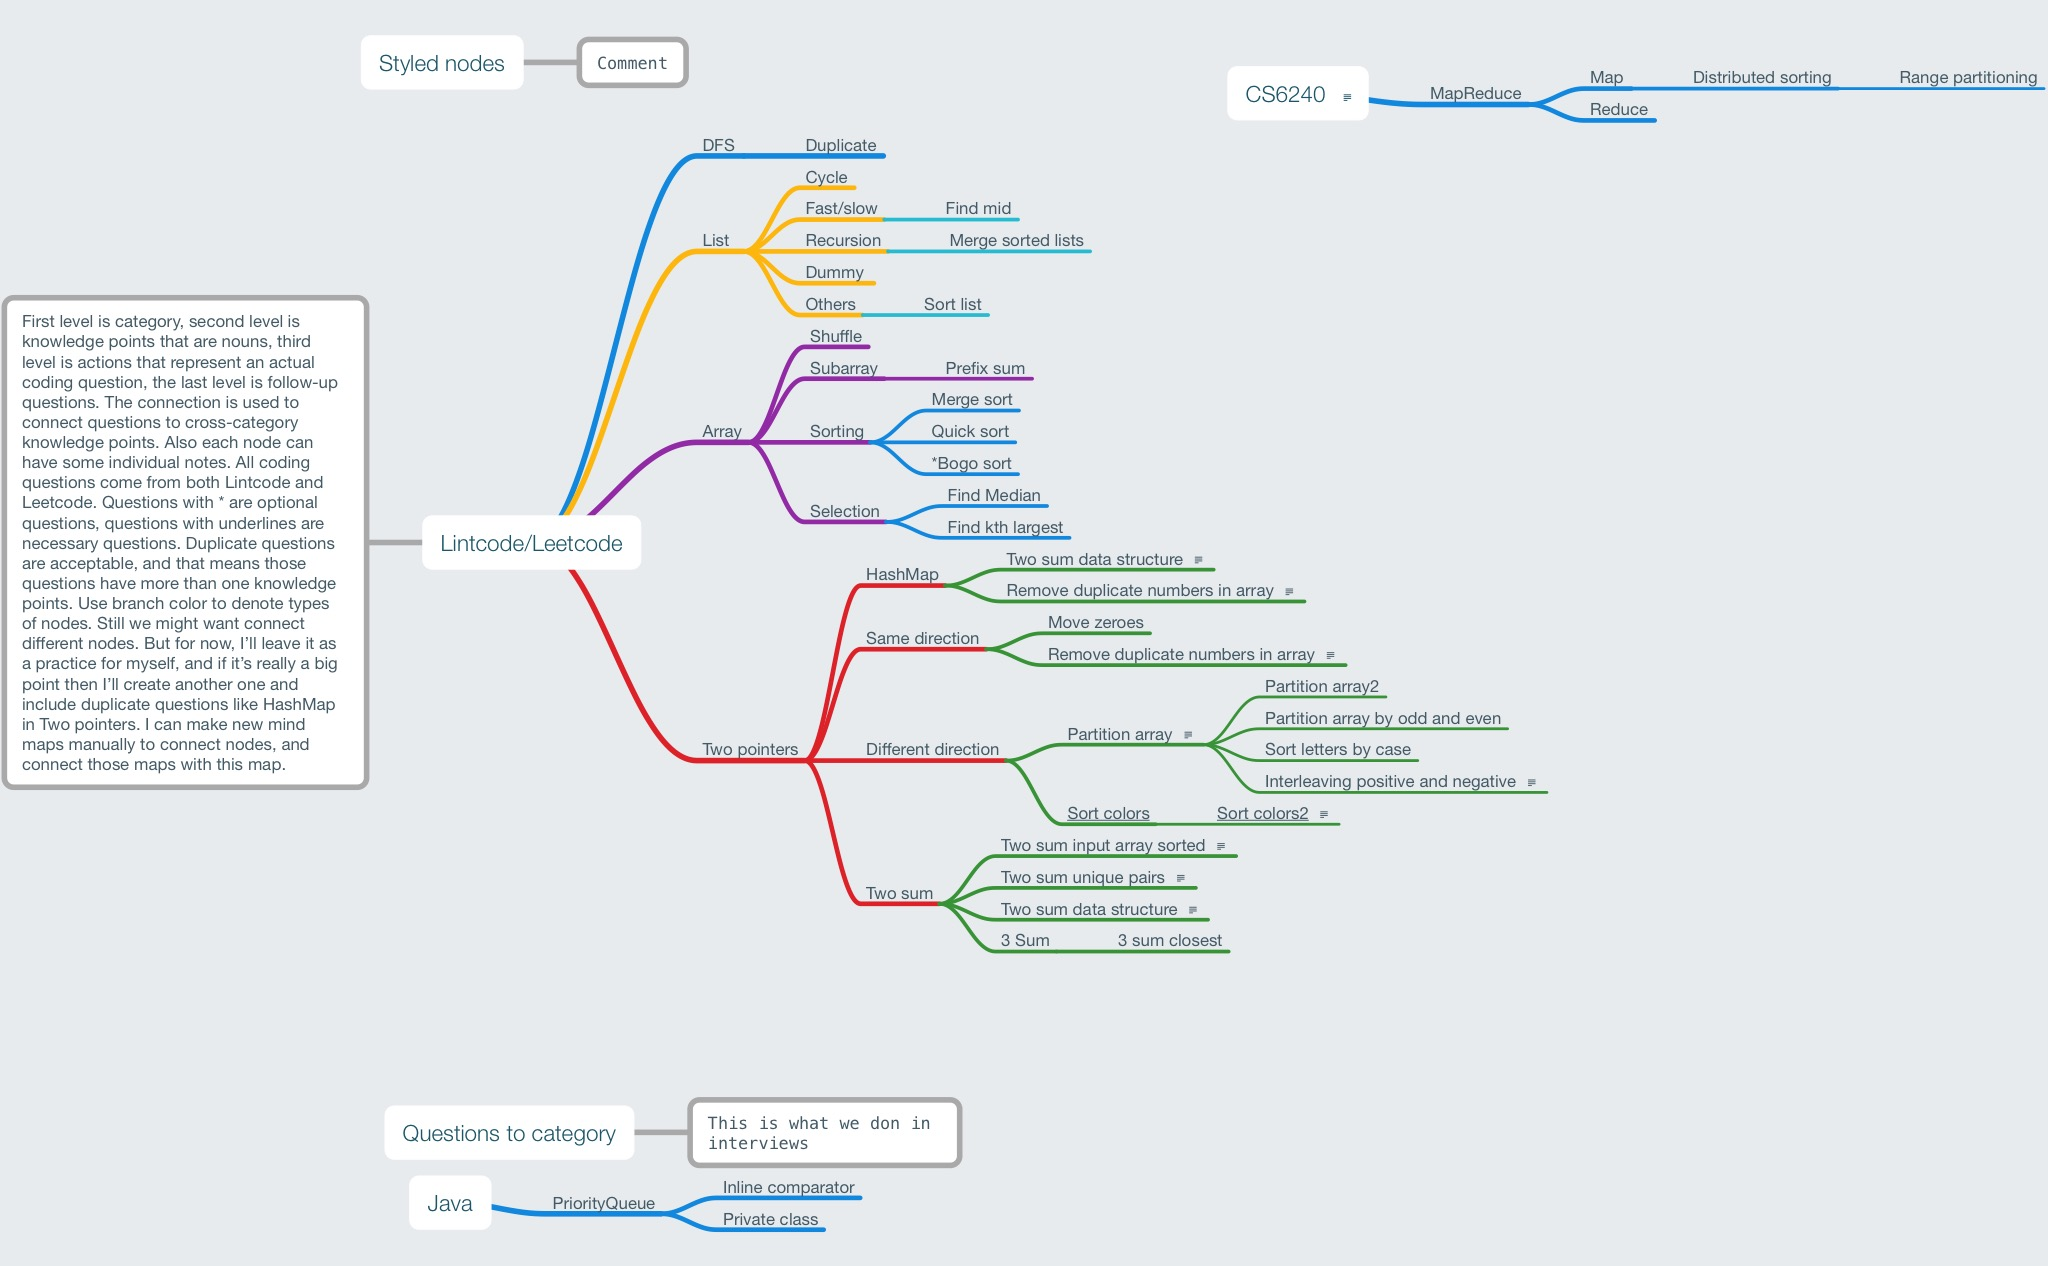
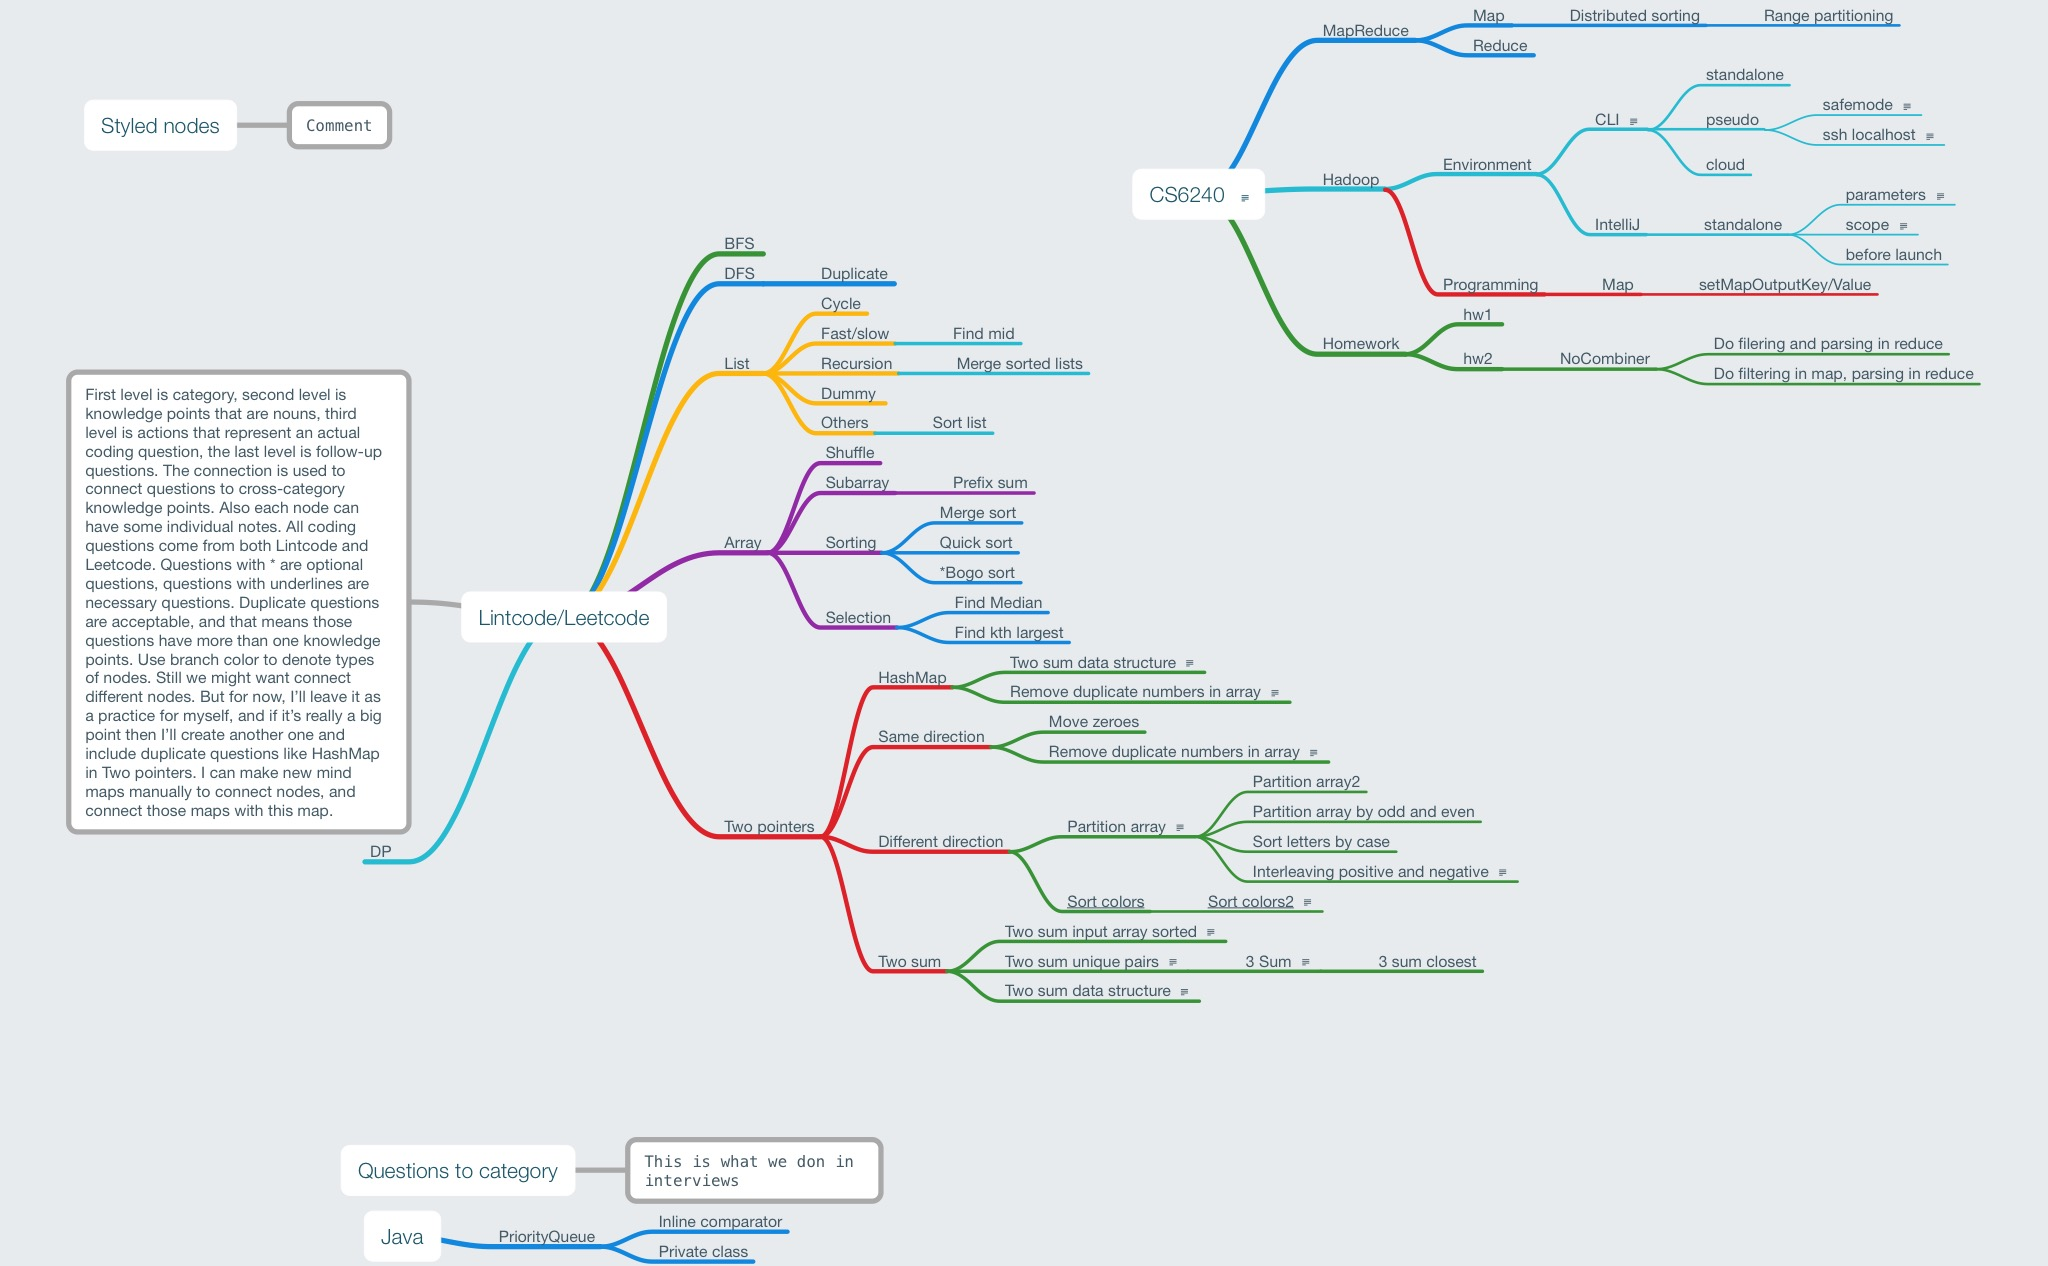
Added two sum less than

diff --git a/TwoPointers/TwoSumLessThanOrEqualTo.md b/TwoPointers/TwoSumLessThanOrEqualTo.md
@@ -1,0 +1,43 @@
+# [TwoSumLessThanOrEqualTo](http://lintcode.com/en/problem/two-sum-less-than-or-equal-to-target/)
+
+## Question
+
+Given an array of integers, find how many pairs in the array such that their sum is less than or equal to a specific target number. Please return the number of pairs.
+
+## Examples
+
+Given nums = [2, 7, 11, 15], target = 24. Return 5.
+2 + 7 < 24
+
+2 + 11 < 24
+
+2 + 15 < 24
+
+7 + 11 < 24
+
+7 + 15 < 25
+
+## Analysis
+
+首先参照 two sum 进行 sort, 然后双指针用变量控制法. 到这里有点明白了, 为什么我看很多题都像是在用 greedy 在做, 那是因为我对题目的类型分类不够清晰, 总觉得每道题都是在蒙, 没有自己的理论知识体系, 是不成章法的.
+
+## Code
+
+```java
+public int twoSum5(int[] nums, int target) {
+    int left = 0, right = nums.length - 1;
+    Arrays.sort(nums);
+    int count = 0;
+    while (left < right) {
+        int current = nums[left] + nums[right];
+        if (current <= target) {
+            count += right - left;
+            left++;
+        } else if (current > target) {
+            right--;
+        }
+    }
+
+    return count;
+}
+```

diff --git a/TwoPointers/Readme.md b/TwoPointers/Readme.md
@@ -24,9 +24,14 @@
 - [TwoSumDataStructure](TwoSumDataStructure.md) ![must-have][must-have]
 - [TwoSumInputArraySorted](TwoSumInputArraySorted.md) ![easy][easy]
 - [TwoSumUniquePairs](TwoSumUniquePairs.md) ![easy][easy] ![must-have][must-have]
+- [TwoSumLessThanOrEqualTo](TwoSumLessThanOrEqualTo.md) ![easy][easy]
 - [3Sum](3Sum.md) ![medium][medium] ![must-have][must-have]
 
 ## Notes
+
+- Most generally, for questions that have two or more variables, how do we do?
+
+  NOTE: We can loop through one variable, and see how the second variable changes.
 
 - Why can we use HashMap to reduce running time and easily solve two sum?
 

diff --git a/TwoPointers/3Sum.md b/TwoPointers/3Sum.md
@@ -24,6 +24,8 @@ Such questions you have to find the meaning of your traversal. For this question
 
 Also, we should be able to guess the solution by estimating the running time, the brute force solution is O(n^3) for this question, so the optimal one could be O(n^2).
 
+This can actually be regarded as a follow-up to two sum unique pairs, because it's involved with removing duplicates. **Any time when we want to remove duplicates, we need to consider about using continue.**
+
 ## Code
 
 ```java

diff --git a/DFS/Readme.md b/DFS/Readme.md
@@ -77,7 +77,8 @@
 - DFS does not need to have backtracking like number of islands, but if the question is about finding paths, then we need DFS to do backtracking.
 - What is the key to problems like removing duplicate elements?
 
-  Choose a representative like 1' or 1''.
+  1. Choose a representative like 1' or 1''.
+  1. Use continue.
 
 ## Appendix
 
